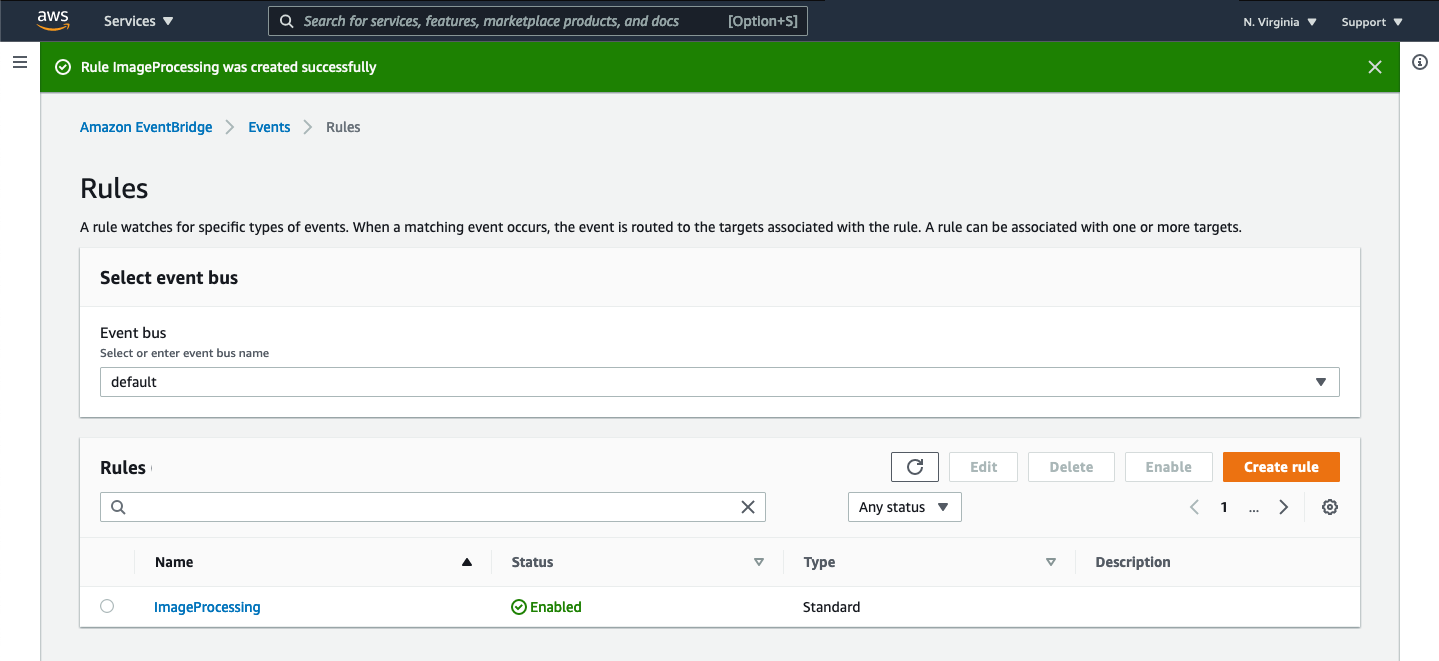
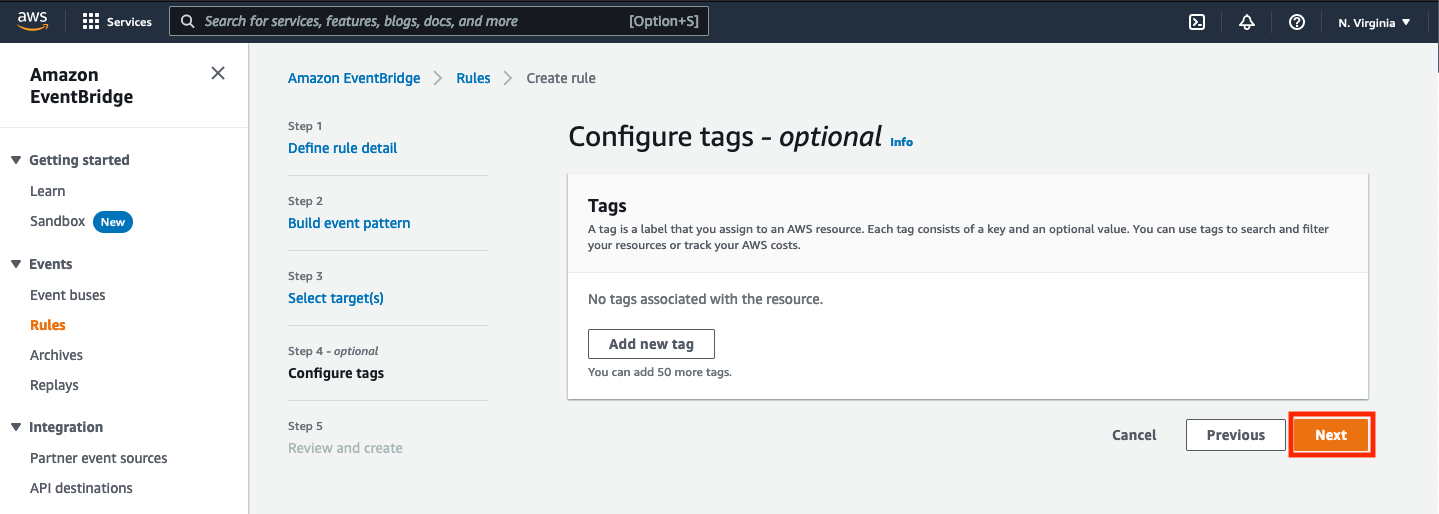
Modified screenshots and instructions to reflect updated EventBridge console interface

diff --git a/ImageProcessing/workshop/content/04_validation/_index.en.md b/ImageProcessing/workshop/content/04_validation/_index.en.md
@@ -26,7 +26,7 @@ For API events in Amazon S3 to match an Amazon EventBridge rule, you must config
 >}}
 
 
-➡ Step 3: Enter `ImageProcessing` as the **Name** and choose **Event Pattern** as the "Define pattern" option. Then choose **Custom pattern**.
+➡ Step 3: Defining the rule details. Enter `ImageProcessing` as the **Name** and choose **Rule with an event pattern** as the "Rule Type" option. Then click **Next**.
 
 {{< figure
 	src="/images/triggering-step3.png"
@@ -48,25 +48,49 @@ For API events in Amazon S3 to match an Amazon EventBridge rule, you must config
   }
 }	{{< /highlight >}}
 
-➡ Step 5: Paste your event pattern into the "Event pattern" text box on the form and click **Save**.
+➡ Step 5: Building the event pattern. Return to the AWS Console and then in the "Event source" section, select **Other**.  
 
 {{< figure
 	src="/images/triggering-step5.png"
 	alt="Step 5"
 >}}
 
-➡ Step 6: Scroll down to the **Select targets** section, and chose **Step Functions state machine** from the dropdown list. Select **RiderPhotoProcessing** for the **State Machine** value and click **Create**. Note, this will automatically create the role needed to invoke the Step Function from this event for you.
+Scroll down to the "Event pattern section and copy/paste your event pattern from your text editor into the "Event pattern" text box on the form and click **Next**.
+
 
 {{< figure
-	src="/images/triggering-step6.png"
-	alt="Step 6"
+	src="/images/triggering-step5b.png"
+	alt="Step 5b"
 >}}
 
-You should see that the ImageProcessing rule was created successfully.
+➡ Step 6: Selecting event targets and finishing the rule creation process. For the "Target types", select **AWS service**, and chose **Step Functions state machine** from the dropdown list of available targets. Select **RiderPhotoProcessing** for the **State Machine** value and click **Create a new role for this specific resource**. Finally, click **Next**.
+
+{{< figure
+	src="/images/triggering-step6a.png"
+	alt="Step 6a"
+>}}
+
+There is no need to add tags to this resource, so simply click **Next**
 
 {{< figure
 	src="/images/triggering-step6b.png"
 	alt="Step 6b"
+>}}
+
+On the "Review and create" screen, scroll to the bottom of the screen and click the **Create rule** button to finish up the rule creation.
+
+{{< figure
+	src="/images/triggering-step6c.png"
+	alt="Step 6c"
+>}}
+
+
+
+You should see that the ImageProcessing rule was created successfully.
+
+{{< figure
+	src="/images/triggering-step6d.png"
+	alt="Step 6d"
 >}}
 
 ### Adjust our state Machine
